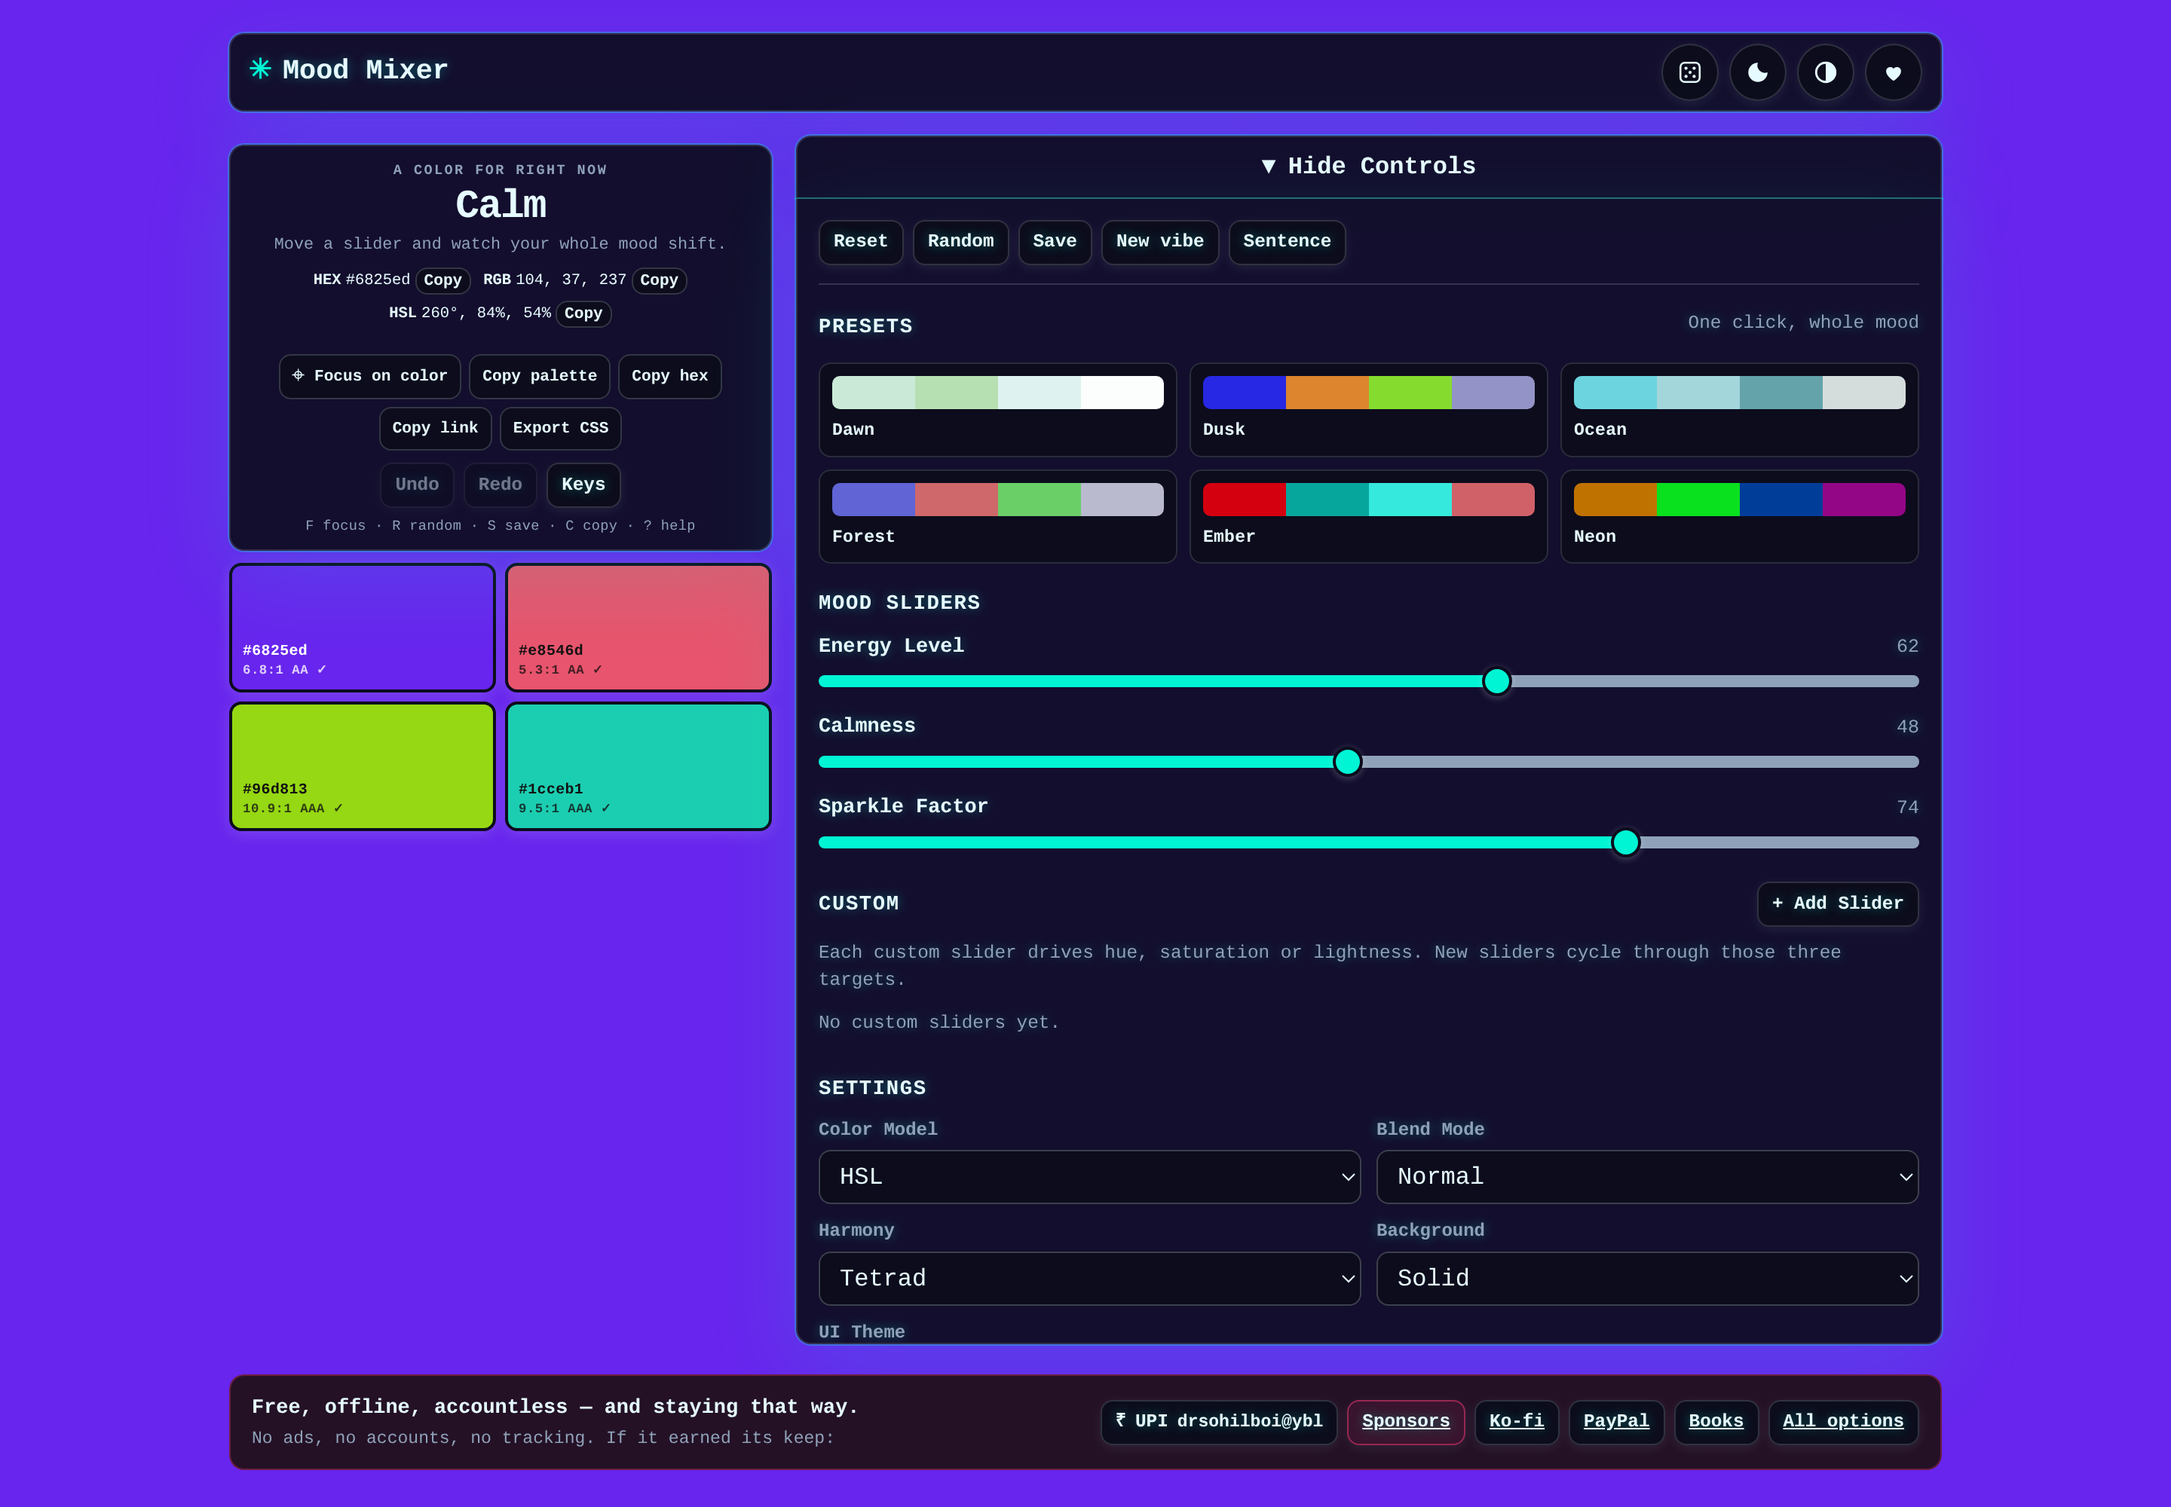
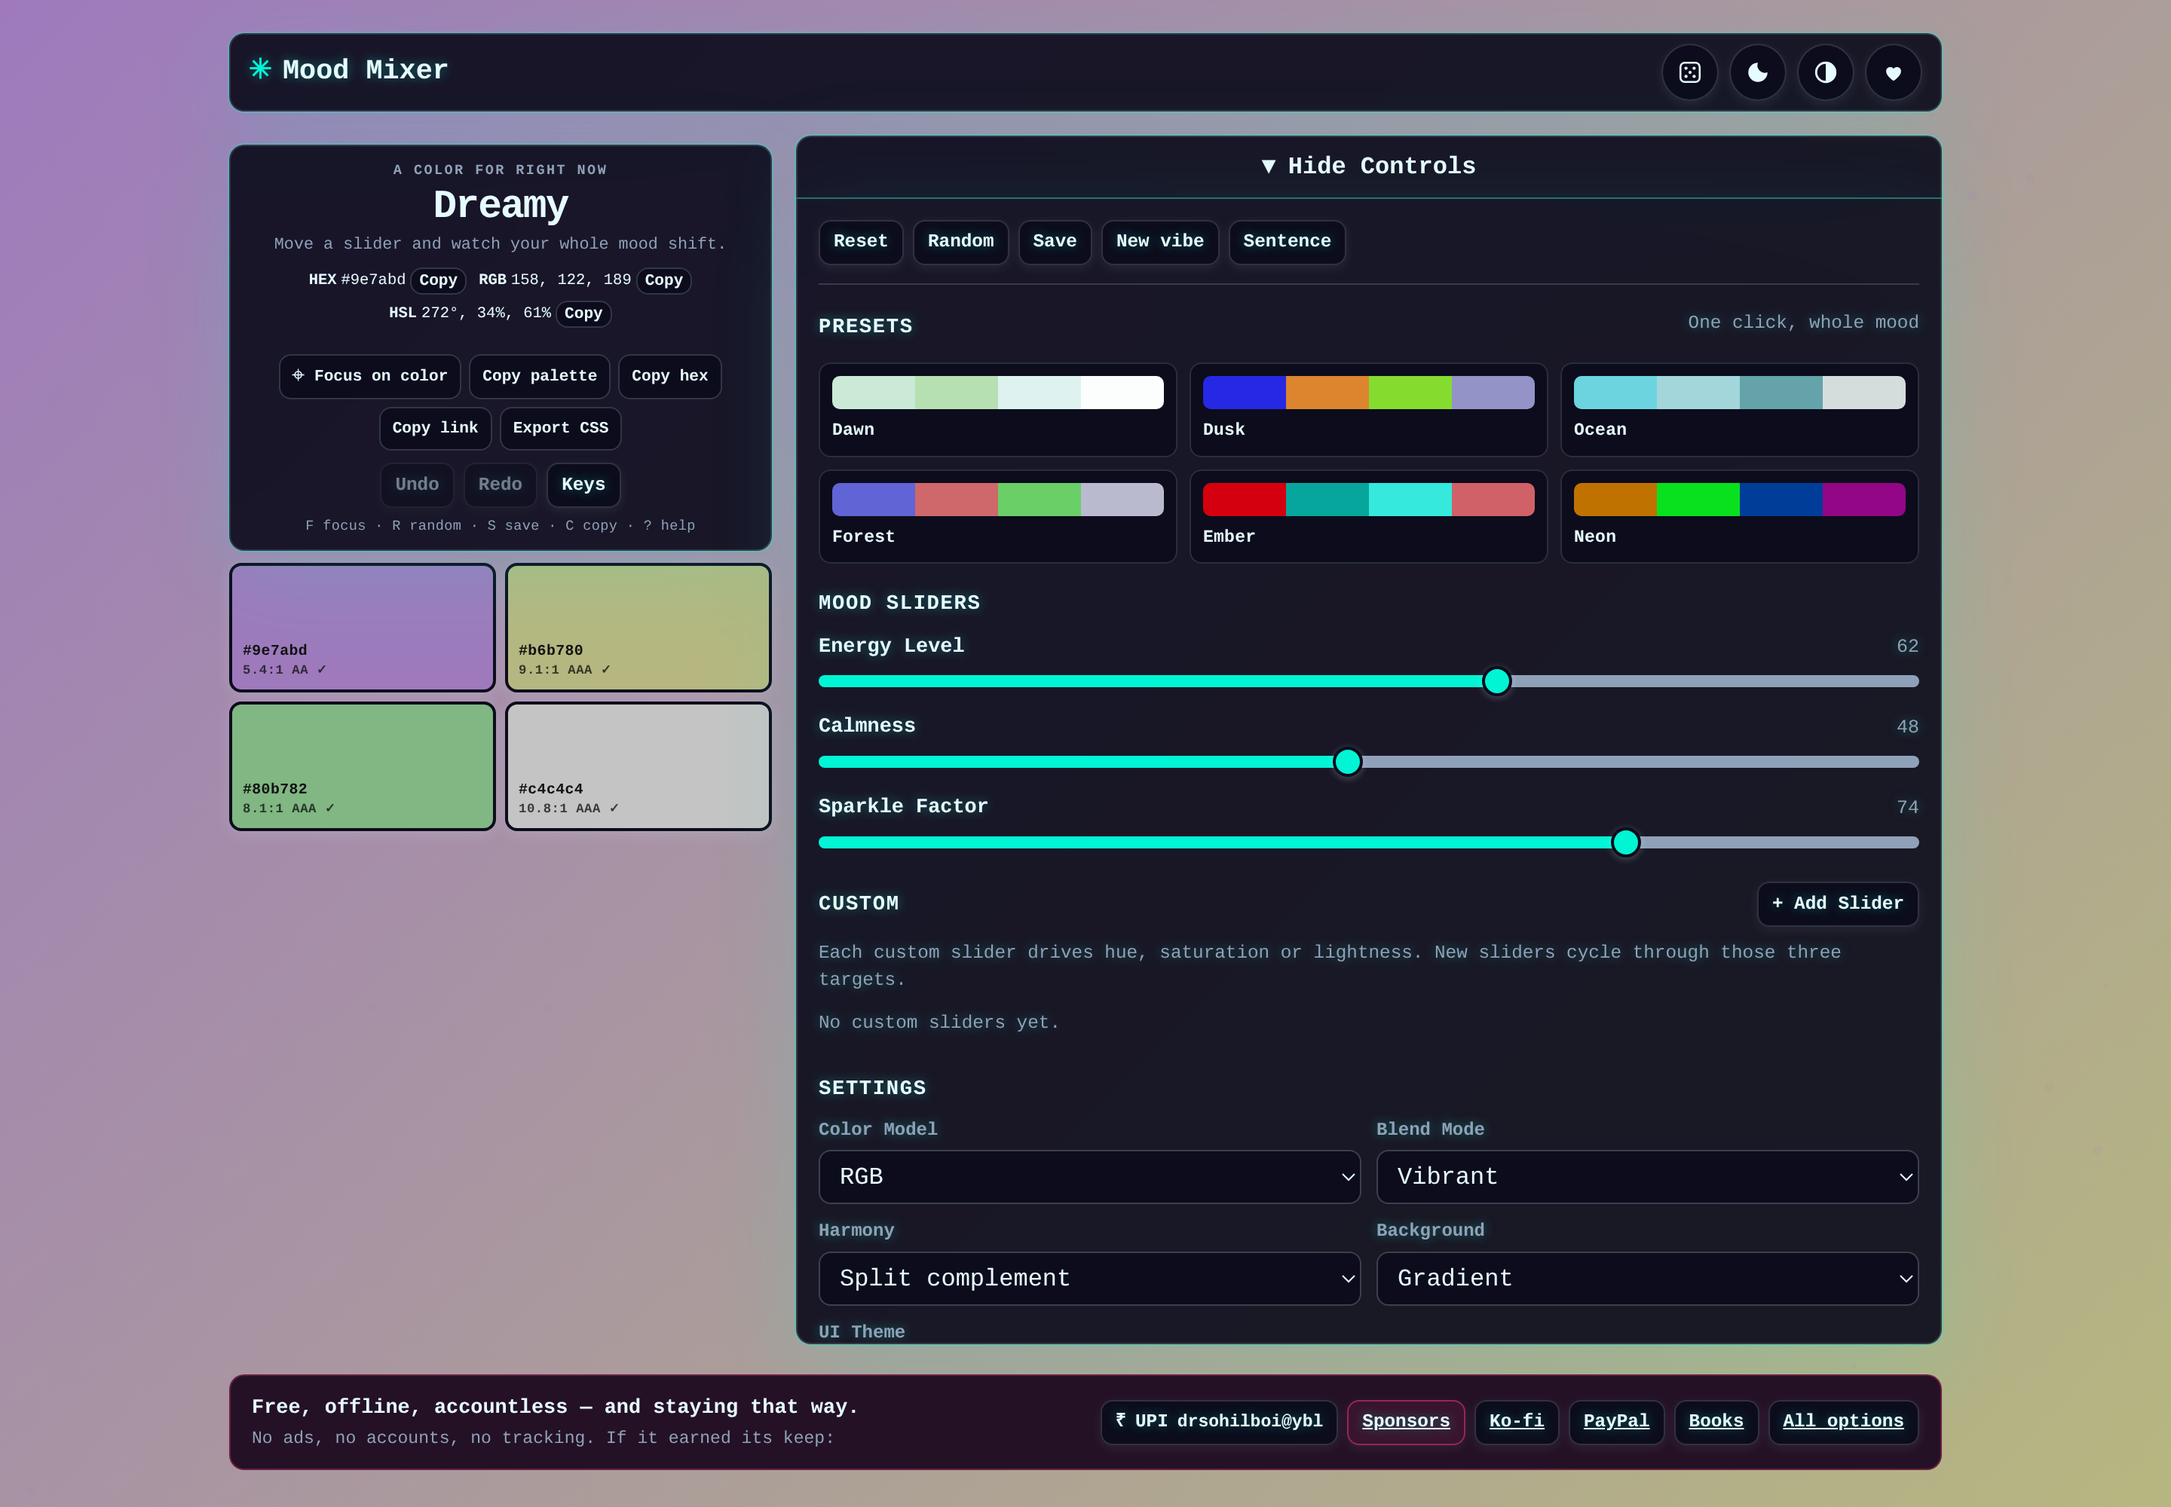
Batch 3: short palette codes, backdrop-aware text, mood thumbnails, install button
- Six-character state token (#p=xxxxxx) replaces the long query hash; old links still open
- Footer and on-colour text pick near-black or white from the backdrop contrast ratio
- Saved moods store their palette and show a four-colour thumbnail
- beforeinstallprompt captured; install button appears in the header and hides after install
- Asset version 2.3.0

diff --git a/script.js b/script.js
@@ -111,6 +111,20 @@
     if (!raw) return false;
     const params = new URLSearchParams(raw);
     let touched = false;
+
+    /* Short form first: #p=1in8hx */
+    const token = params.get('p');
+    if (token) {
+      const decoded = C.decodeToken(token);
+      if (decoded) {
+        state.values = Object.assign({}, state.values, decoded.values);
+        state.model = decoded.model;
+        state.blend = decoded.blend;
+        state.harmony = decoded.harmony;
+        state.background = decoded.background;
+        touched = true;
+      }
+    }
     DEFAULTS.forEach((slider) => {
       const value = Number(params.get(slider.id.slice(0, 2)));
       if (Number.isFinite(value) && params.has(slider.id.slice(0, 2))) {
@@ -162,13 +176,7 @@
 
   function hashParams() {
     const params = new URLSearchParams();
-    params.set('en', String(state.values.energy ?? 50));
-    params.set('ca', String(state.values.calmness ?? 50));
-    params.set('sp', String(state.values.sparkle ?? 50));
-    params.set('model', state.model);
-    params.set('blend', state.blend);
-    params.set('harmony', state.harmony);
-    params.set('bg', state.background);
+    params.set('p', C.encodeToken(state));
     return params;
   }
 
@@ -483,8 +491,15 @@
       const row = document.createElement('div');
       row.className = 'saved-mood-item';
       const swatch = document.createElement('span');
-      swatch.className = 'saved-mood-swatch';
-      swatch.style.backgroundColor = mood.hex || '#888888';
+      swatch.className = 'saved-mood-swatch saved-mood-thumbs';
+      const thumbs = Array.isArray(mood.palette) && mood.palette.length ?
+        mood.palette :
+        [mood.hex || '#888888'];
+      thumbs.slice(0, 4).forEach((hex) => {
+        const chip = document.createElement('span');
+        chip.style.backgroundColor = hex;
+        swatch.appendChild(chip);
+      });
       const info = document.createElement('div');
       info.className = 'saved-mood-info';
       const title = document.createElement('div');
@@ -865,6 +880,10 @@
     paintSwatches(palette);
     renderPairs(palette);
 
+    const backdropInk = C.bestInk(C.hexToRgb(palette[0]) || current);
+    document.documentElement.style.setProperty('--on-backdrop', backdropInk.ink);
+    document.documentElement.setAttribute('data-backdrop-ink', backdropInk.on);
+
     document.querySelectorAll('#slidersContainer input[type="range"], #customSlidersContainer input[type="range"]')
       .forEach((slider) => {
         const min = Number(slider.min || 0);
@@ -1216,6 +1235,7 @@
         id: `${Date.now()}-${Math.random().toString(16).slice(2)}`,
         name: name.trim(),
         hex: C.toHex(current),
+        palette: C.palette(current, state.harmony),
         vibe: currentVibe,
         values: snapshotValues(),
         folder: state.folderFilter === 'All' ? 'Unfiled' : state.folderFilter,
@@ -1371,6 +1391,46 @@
     });
   }
 
+  let deferredInstall = null;
+
+  function showInstall(show) {
+    const button = byId('installBtn');
+    if (button) button.hidden = !show;
+  }
+
+  function bindInstall() {
+    const standalone = window.matchMedia('(display-mode: standalone)').matches ||
+      window.navigator.standalone === true;
+    if (standalone) {
+      showInstall(false);
+      return;
+    }
+    window.addEventListener('beforeinstallprompt', (event) => {
+      event.preventDefault();
+      deferredInstall = event;
+      showInstall(true);
+    });
+    window.addEventListener('appinstalled', () => {
+      deferredInstall = null;
+      showInstall(false);
+      announce('Mood Mixer installed');
+    });
+    on('installBtn', 'click', async () => {
+      if (!deferredInstall) {
+        announce('Use the browser menu to install this page');
+        return;
+      }
+      deferredInstall.prompt();
+      try {
+        await deferredInstall.userChoice;
+      } catch (error) {
+        // dismissed
+      }
+      deferredInstall = null;
+      showInstall(false);
+    });
+  }
+
   function init() {
     const fromHash = readHash();
     currentVibe = state.vibes.length ? state.vibes[0] : 'Moody';
@@ -1382,6 +1442,7 @@
     renderHistory();
     updateUndoButtons();
     bindEvents();
+    bindInstall();
     particles.init();
     updateMood();
     if (fromHash) announce('Loaded palette from link');

diff --git a/mixer/index.html b/mixer/index.html
@@ -10,15 +10,15 @@
   <meta name="color-scheme" content="light dark">
   <link rel="icon" href="../favicon.svg" type="image/svg+xml">
   <link rel="apple-touch-icon" href="../icons/apple-touch-icon.png">
-  <link rel="manifest" href="../manifest.json?v=2.2.0">
+  <link rel="manifest" href="../manifest.json?v=2.3.0">
   <meta property="og:type" content="website">
   <meta property="og:title" content="Mood Mixer — live color playground">
   <meta property="og:description" content="Sliders in, palettes out. Copy hex, check contrast, export CSS, JSON, Tailwind or PNG.">
   <meta property="og:image" content="https://drsamonline.github.io/mood-mixer/screenshots/mixer.png">
   <meta name="twitter:card" content="summary_large_image">
   <meta name="twitter:image" content="https://drsamonline.github.io/mood-mixer/screenshots/mixer.png">
-  <link rel="stylesheet" href="../theme.css?v=2.2.0">
-  <link rel="stylesheet" href="../style.css?v=2.2.0">
+  <link rel="stylesheet" href="../theme.css?v=2.3.0">
+  <link rel="stylesheet" href="../style.css?v=2.3.0">
 </head>
 
 <body>
@@ -33,6 +33,13 @@
         <span class="app-title">Mood Mixer</span>
       </a>
       <div class="header-controls">
+        <button id="installBtn" class="btn btn-icon btn-install" type="button" hidden aria-label="Install Mood Mixer" title="Install app">
+          <svg viewBox="0 0 24 24" width="17" height="17" aria-hidden="true" focusable="false">
+            <path d="M12 3v11" fill="none" stroke="currentColor" stroke-width="1.9" stroke-linecap="round" />
+            <path d="M8 10.5 12 14.5 16 10.5" fill="none" stroke="currentColor" stroke-width="1.9" stroke-linecap="round" stroke-linejoin="round" />
+            <path d="M4.5 16.5v2.2A1.8 1.8 0 0 0 6.3 20.5h11.4a1.8 1.8 0 0 0 1.8-1.8v-2.2" fill="none" stroke="currentColor" stroke-width="1.9" stroke-linecap="round" />
+          </svg>
+        </button>
         <button id="randomizeHeader" class="btn btn-icon" type="button" aria-label="Randomise the palette" title="Randomise (R)">
           <svg viewBox="0 0 24 24" width="17" height="17" aria-hidden="true" focusable="false">
             <rect x="3" y="3" width="18" height="18" rx="4" fill="none" stroke="currentColor" stroke-width="1.8" />
@@ -307,8 +314,8 @@
     </form>
   </dialog>
 
-  <script src="../color-core.js?v=2.2.0"></script>
-  <script src="../script.js?v=2.2.0"></script>
+  <script src="../color-core.js?v=2.3.0"></script>
+  <script src="../script.js?v=2.3.0"></script>
 </body>
 
 </html>

diff --git a/color-core.js b/color-core.js
@@ -267,6 +267,57 @@
     return out;
   }
 
+  /* Compact state token: #p=xxxxxx carries the whole palette in six characters. */
+  const MODEL_KEYS = ['hsl', 'rgb', 'hsv'];
+  const BLEND_KEYS = ['normal', 'vibrant', 'pastel', 'mono'];
+  const HARMONY_KEYS = ['tetrad', 'complement', 'analogous', 'triad', 'split', 'mono'];
+
+  function encodeToken(state) {
+    const values = state.values || {};
+    const e = Math.round(clamp(Number(values.energy ?? 50), 0, 100));
+    const c = Math.round(clamp(Number(values.calmness ?? 50), 0, 100));
+    const sp = Math.round(clamp(Number(values.sparkle ?? 50), 0, 100));
+    const model = Math.max(0, MODEL_KEYS.indexOf(state.model));
+    const blend = Math.max(0, BLEND_KEYS.indexOf(state.blend));
+    const harmony = Math.max(0, HARMONY_KEYS.indexOf(state.harmony));
+    const bg = state.background === 'gradient' ? 1 : 0;
+    let n = e;
+    n = n * 101 + c;
+    n = n * 101 + sp;
+    n = n * 3 + model;
+    n = n * 4 + blend;
+    n = n * 6 + harmony;
+    n = n * 2 + bg;
+    return n.toString(36);
+  }
+
+  function decodeToken(token) {
+    const n = parseInt(String(token || ''), 36);
+    if (!Number.isFinite(n) || n < 0) return null;
+    let rest = n;
+    const bg = rest % 2;
+    rest = Math.floor(rest / 2);
+    const harmony = rest % 6;
+    rest = Math.floor(rest / 6);
+    const blend = rest % 4;
+    rest = Math.floor(rest / 4);
+    const model = rest % 3;
+    rest = Math.floor(rest / 3);
+    const sparkle = rest % 101;
+    rest = Math.floor(rest / 101);
+    const calmness = rest % 101;
+    rest = Math.floor(rest / 101);
+    const energy = rest % 101;
+    if (![energy, calmness, sparkle].every((v) => v >= 0 && v <= 100)) return null;
+    return {
+      values: { energy, calmness, sparkle },
+      model: MODEL_KEYS[model] || 'hsl',
+      blend: BLEND_KEYS[blend] || 'normal',
+      harmony: HARMONY_KEYS[harmony] || 'tetrad',
+      background: bg ? 'gradient' : 'solid'
+    };
+  }
+
   function describe(color) {
     const hex = toHex(color);
     return {
@@ -291,6 +342,8 @@
     pairs,
     generate,
     vibeForHue,
+    encodeToken,
+    decodeToken,
     describe,
     HARMONIES
   };

diff --git a/style.css b/style.css
@@ -1250,3 +1250,47 @@ body.focus-locked {
     grid-template-columns: 1fr;
   }
 }
+
+/* ---------- install button ---------- */
+[hidden] {
+  display: none !important;
+}
+
+.btn-install {
+  color: var(--color-primary);
+}
+
+/* ---------- backdrop-aware text ---------- */
+.app-footer {
+  color: var(--on-backdrop, var(--color-muted));
+}
+
+.app-footer a {
+  color: var(--on-backdrop, var(--color-text));
+  opacity: 0.85;
+}
+
+.app-footer a:hover {
+  opacity: 1;
+}
+
+.app-footer span[aria-hidden] {
+  opacity: 0.5;
+}
+
+/* ---------- saved mood thumbnails ---------- */
+.saved-mood-swatch.saved-mood-thumbs {
+  display: flex;
+  width: 58px;
+  height: 34px;
+  flex: none;
+  overflow: hidden;
+  border: 1px solid color-mix(in srgb, var(--color-text) 12%, transparent);
+  border-radius: 7px;
+  background: none;
+}
+
+.saved-mood-thumbs span {
+  flex: 1;
+  height: 100%;
+}

diff --git a/index.html b/index.html
@@ -20,8 +20,8 @@
   <meta name="twitter:title" content="Mood Mixer — find the color for right now">
   <meta name="twitter:description" content="A private, offline-ready color playground. Sliders in, palettes out.">
   <meta name="twitter:image" content="https://drsamonline.github.io/mood-mixer/screenshots/landing.png">
-  <link rel="stylesheet" href="theme.css?v=2.2.0">
-  <link rel="stylesheet" href="landing.css?v=2.2.0">
+  <link rel="stylesheet" href="theme.css?v=2.3.0">
+  <link rel="stylesheet" href="landing.css?v=2.3.0">
 </head>
 
 <body>
@@ -198,8 +198,8 @@
     </footer>
   </div>
 
-  <script src="color-core.js?v=2.2.0"></script>
-  <script src="landing.js?v=2.2.0"></script>
+  <script src="color-core.js?v=2.3.0"></script>
+  <script src="landing.js?v=2.3.0"></script>
 </body>
 
 </html>

diff --git a/service-worker.js b/service-worker.js
@@ -4,7 +4,7 @@
  */
 const CACHE_VERSION = 'v11';
 const CACHE_NAME = `mood-mixer-${CACHE_VERSION}`;
-const ASSET_VERSION = '2.2.0';
+const ASSET_VERSION = '2.3.0';
 
 const PRECACHE = [
   './',

diff --git a/README.md b/README.md
@@ -81,16 +81,17 @@ All captures are real renders of this repository, taken at 1440×900, 1440×1000
 - **Custom sliders.** Add sliders that drive hue, saturation or lightness, rename them, remove them.
 - **Locks.** Freeze hue, saturation or lightness and move everything else.
 - **Exports.** Copy hex, copy the palette, copy it as a text list, or download CSS variables, JSON, a Tailwind config or a 1200×630 PNG card.
-- **Shareable links.** The full state lives in the URL hash and a Copy link button puts it on the clipboard, so a palette can be sent as a link.
+- **Shareable links.** The whole state packs into a six-character code — `#p=1in8hx` — carried in the URL hash; a Copy link button puts the full link on the clipboard. Longer query-style links from earlier versions still open.
 - **Readable pairs.** Three text-on-background suggestions from the current palette, each graded, each copying its CSS on click.
-- **Saved moods and history.** Save, rename, move between folders, load and delete moods; filter by folder; a 12-entry palette history you can drag to reorder, with restore. Import and export a JSON backup.
+- **Saved moods and history.** Save, rename, move between folders, load and delete moods; each mood shows its four colours as a thumbnail; filter by folder; a 12-entry palette history you can drag to reorder, with restore. Import and export a JSON backup.
 - **Print card.** One click prints the palette as a clean card — vibe, hex, RGB, HSL and the four colours in a 2×2 grid, nothing else.
 - **Undo and redo.** Ctrl/Cmd+Z, Ctrl/Cmd+Shift+Z, or the buttons.
 - **Focus mode.** One tap on the screen and the whole display becomes the colour — header, card, swatches, controls, support bar and footer all go. Tap anywhere to bring the interface back for a few seconds, or press Escape to leave.
 - **Randomise from the header.** One button in the header, or `R`, reshuffles every slider; undo puts it back.
 - **Four UI themes, dark mode, high contrast.** Modern, minimalist, retro and neon, each with its own type and colour tokens.
 - **Sound and particles.** Optional WebAudio ticks, and an ambient particle layer that follows the sparkle slider.
-- **Works offline.** Installable PWA. The service worker precaches 19 files, serves network-first so a deploy shows on the next load, and answers from cache the moment the network is gone. No request leaves the origin at any point.
+- **Backdrop-aware text.** Footer and on-colour text flip between near-black and white based on the contrast ratio of whatever colour is behind them.
+- **Works offline.** Installable PWA, with an install button that appears in the header when the browser offers one. The service worker precaches 19 files, serves network-first so a deploy shows on the next load, and answers from cache the moment the network is gone. No request leaves the origin at any point.
 - **Keyboard.** `F` focus, `R` random, `S` save, `C` copy hex, `Esc` leave focus mode, `Ctrl/Cmd+Z` undo, `?` for the full list — the same list is a button in the mixer.
 
 ## Privacy
